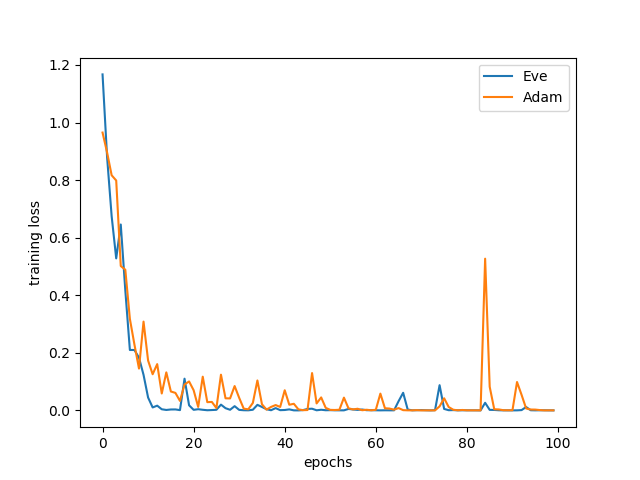
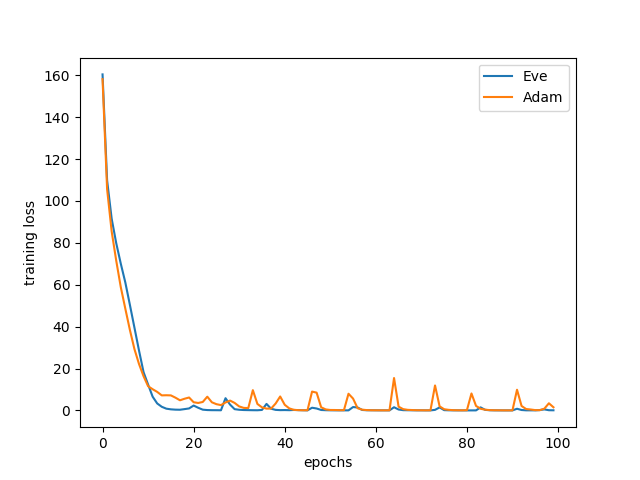
updated figures

diff --git a/eve_test.py b/eve_test.py
@@ -1,4 +1,4 @@
-from Eve import Eve
+from eve import Eve
 
 import torch
 import torch.nn as nn
@@ -56,6 +56,7 @@ class Net(nn.Module):
 
 def train(epoch, model, optimizer):
     model.train()
+    total_loss = 0
     for batch_idx, (data, target) in enumerate(train_loader):
         if cuda:
             data, target = data.cuda(), target.cuda()
@@ -69,11 +70,13 @@ def train(epoch, model, optimizer):
         loss = optimizer.step(closure)
         if type(loss) is not float:
             loss = loss.data[0]
+        total_loss += loss*batch_size/len(train_loader)
         if batch_idx % 20 == 0:
             print('\rTrain Epoch: {} [{}/{} ({:>4.2%})] Loss: {:>5.3}'.format(
                   epoch, batch_idx * len(data), len(train_loader.dataset),
-                  batch_idx / len(train_loader), loss), end="")
-    return loss
+                  batch_idx / len(train_loader), total_loss), 
+                  end="")
+    return total_loss
 
 
 def test(epoch, model):
